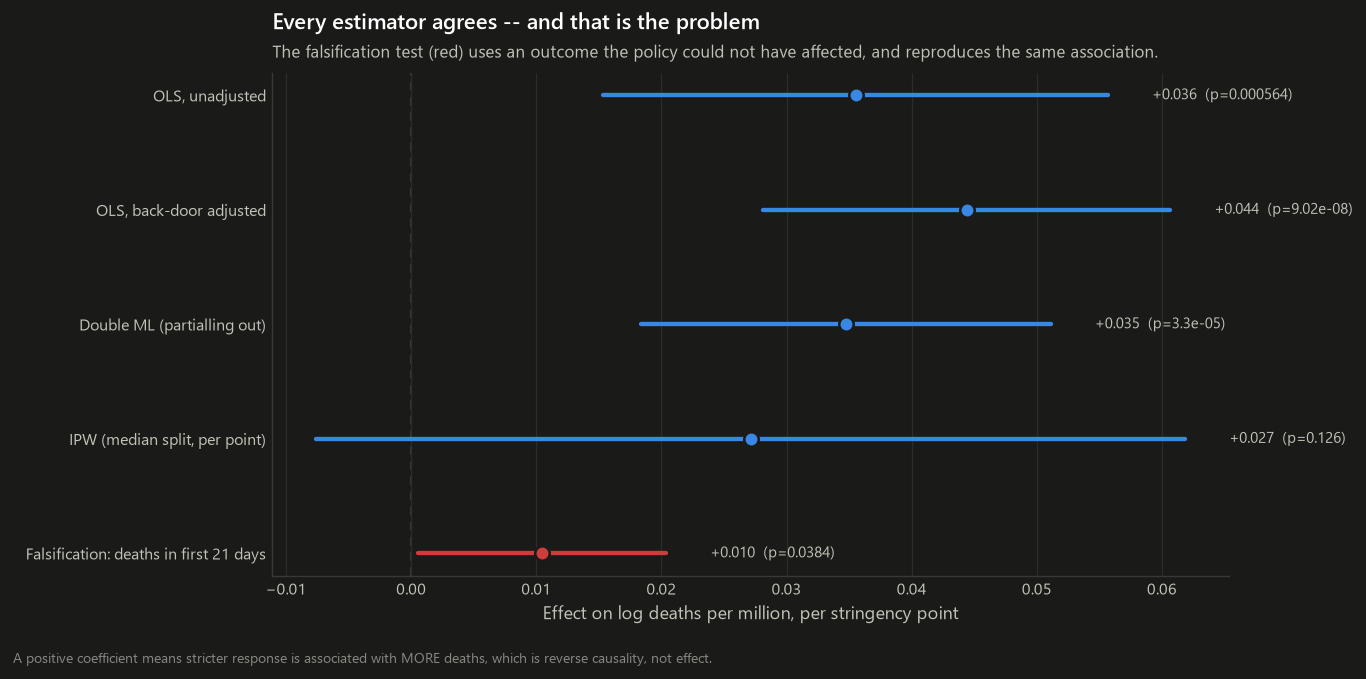
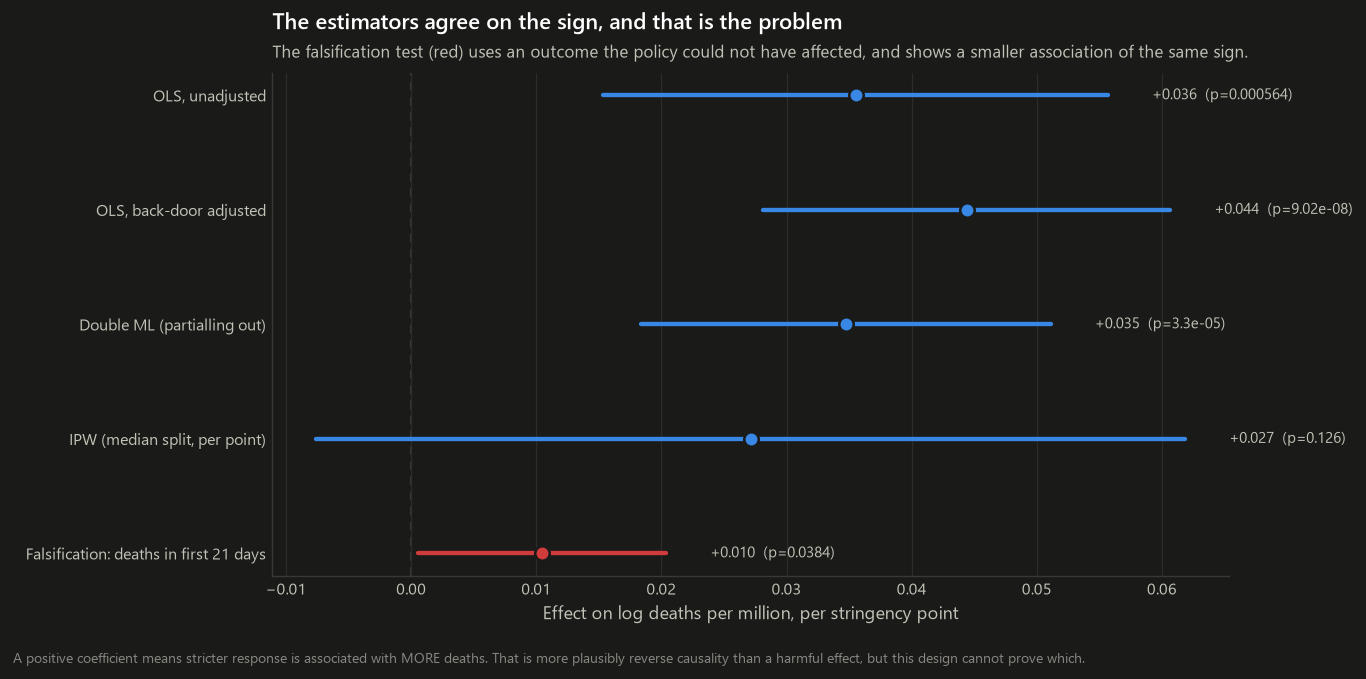
Describe the identification probes as they actually came out
The README and METHODS said the lagged probe was a null with no power. The saved
results show it is significant (p = 0.022) but negative, the opposite of the
reverse-causality story. The 21-day falsification outcome is also small but
nonzero (+0.0105, p = 0.038, about 24% of the main effect), not "no detectable
association". Reworded the Limitations text, METHODS, and the code docstring and
message to match, and softened "reverse causality" from a statement of fact to
the more plausible reading. The estimate-ladder figure subtitle, title and
footnote are corrected and re-rendered from the saved results.

The saved causal_summary.json still carries the old interpretation string until
the causal stage is next rerun.

Changed region(s): [[0.1845, 0.0, 0.6149, 0.0619], [0.369, 0.9588, 0.7994, 0.9897], [0.6457, 0.0619, 0.9224, 0.0928]]

diff --git a/src/pandemic/causal/identification.py b/src/pandemic/causal/identification.py
@@ -40,9 +40,10 @@ def response_channel(df: pd.DataFrame, treatment: str, controls: list[str],
     Two probes, because they have very different power:
 
     ``lagged``      treatment against case growth measured *before* the window
-                    opened. Weak by construction -- at the 100th case almost every
-                    country still has a tiny, noisy series, so a null here is
-                    uninformative rather than reassuring.
+                    opened. The series are short and noisy at the 100th case, so
+                    this is a weak probe. A positive, significant result would
+                    suggest governments reacted to earlier growth. In this data it
+                    is significant but negative, which does not support that story.
     ``concurrent``  treatment against the outbreak size *during* the window. This
                     is what governments were actually watching. It cannot separate
                     cause from effect on its own -- restrictions also change case
@@ -119,8 +120,8 @@ def effect_before_cause(df: pd.DataFrame, treatment: str, controls: list[str],
             "the estimate on the pre-causal window is of comparable size and the "
             "same sign, so the headline association is confounding rather than effect"
             if contaminated else
-            "no detectable association on the pre-causal window, which is what a "
-            "credible causal estimate requires"
+            "the association on the pre-causal window is small relative to the main "
+            "estimate (below the contamination cut-off), though not necessarily zero"
         ),
     }
 

diff --git a/src/pandemic/viz/plots_causal.py b/src/pandemic/viz/plots_causal.py
@@ -143,12 +143,13 @@ def estimate_ladder(rows: list[dict], placebo_row: dict | None = None):
         ax.grid(axis="x", color=p.grid, lw=0.7)
         ax.set_xlabel("Effect on log deaths per million, per stringency point")
 
-        title(ax, "Every estimator agrees -- and that is the problem",
+        title(ax, "The estimators agree on the sign, and that is the problem",
               "The falsification test (red) uses an outcome the policy could not have "
-              "affected, and reproduces the same association.", palette=p)
+              "affected, and shows a smaller association of the same sign.", palette=p)
         fig.tight_layout()
         footnote(fig, "A positive coefficient means stricter response is associated with "
-                      "MORE deaths, which is reverse causality, not effect.", p)
+                      "MORE deaths. That is more plausibly reverse causality than a harmful "
+                      "effect, but this design cannot prove which.", p)
 
     return draw
 

diff --git a/README.md b/README.md
@@ -346,18 +346,20 @@ whether an estimate is *stable*. They say nothing about whether it's
 stable, survives every placebo, and carries a respectable E-value.
 
 So I tested identification directly. Regressing treatment on the outbreak size
-*during* the policy window gives **+2.26 (p = 0.032)**. Governments clamped down
-harder where the epidemic was worse. Treatment and outcome are decided at the
-same time by the same thing, and no amount of adjusting for fixed country traits
-separates them.
+*during* the policy window gives **+2.26 (p = 0.032)**: stringency was higher
+where the epidemic was bigger. That fits governments clamping down harder where
+things were worse, and if so, treatment and outcome are decided at the same time
+by the same thing, which adjusting for fixed country traits cannot separate. The
+evidence is suggestive rather than airtight (see Limitations).
 
 The pipeline writes its own verdict:
 
 > The design does NOT identify a causal effect. […] The reported coefficient is a
 > measure of which countries were already in trouble when they acted.
 
-The positive sign is the giveaway. Reading +0.035 as "lockdowns increased deaths"
-points the arrow backwards.
+A positive sign is hard to read as "lockdowns increased deaths", and much easier
+to read as reverse causality. The honest conclusion is not "lockdowns don't work",
+it's that this design cannot tell us either way.
 
 ### The comparison the brief asks for
 
@@ -488,12 +490,24 @@ can only agree with the suspicion behind it isn't a diagnostic. The problem it
 does catch is narrower: it shows up when one variable is *defined* as a share of
 population, which `mechanical_scaling_demo` builds explicitly.
 
-**One of the two identification probes has no power.** The lagged probe tests
-case growth *before* the policy window, when nearly every country still has a
-short and noisy series, so its null means nothing. The concurrent probe, outbreak
-size *during* the window, is the one that can detect simultaneity, and it fires
-at p = 0.032. Both are reported with the caveat that they can reveal confounding
-but never rule it out.
+**The identification checks are mixed, and the verdict leans on one borderline
+probe.** Three checks look at whether the policy was driven by the outbreak:
+
+- *Outbreak size during the window* against stringency: **+2.26, p = 0.032**. This
+  is the probe that triggers the "not identified" verdict. Even this one cannot
+  separate cause from effect alone, since restrictions also change case counts.
+- *Case growth before the window* against stringency: **−2.59, p = 0.022**. It is
+  significant but the **opposite sign**: countries with faster early growth went on
+  to adopt less strict policy. That does not support "governments reacted to
+  earlier growth", and I don't have a clean explanation for it.
+- *Deaths in the first 21 days* (which policy could not have prevented) against
+  stringency: **+0.0105, p = 0.038**, about a quarter the size of the main
+  effect. It falls under my 0.3 cut-off for flagging contamination, but it is not
+  zero.
+
+So the design is not clean, the probes do not agree, and none of them can rule
+confounding out. The one firm conclusion is that this cross-country design cannot
+identify the effect.
 
 **The synthetic control is a null on a design that can't be read.** Covered above,
 including the figure that shows why.

diff --git a/reports/METHODS.md b/reports/METHODS.md
@@ -88,13 +88,17 @@ altered by differential under-recording — which is exactly the kind of
 state-varying data-quality problem the forensics stage detects, but the state-level
 series are too short to score reliably.
 
-**The identification probes are one-sided.** They can reveal confounding but
-cannot demonstrate its absence. A probe restricted to case growth *before* the
-policy window returns a null for a trivial reason — at the 100th case nearly every
-country still has a short, noisy series, so there is nothing for the test to
-detect. The concurrent probe, outbreak size *during* the window, is the one with
-power, and it fires (p = 0.032). Both are reported, because a null from an
-underpowered test is not evidence of anything.
+**The identification probes are one-sided and they disagree.** They can reveal
+confounding but cannot demonstrate its absence. The concurrent probe (outbreak
+size *during* the window) is positive and significant (+2.26, p = 0.032) and is
+what drives the "not identified" verdict. The lagged probe (case growth *before*
+the window) is also significant (p = 0.022) but negative (−2.59): faster early
+growth went with *less* strict later policy, which is the opposite of the
+reverse-causality story and is not explained here. The 21-day falsification
+outcome shows a small positive association (+0.0105, p = 0.038, about 24% of the
+main effect), below the 0.3 ratio used to flag contamination. The verdict
+therefore rests on one borderline probe, and should be read as "this design
+cannot identify the effect", not as proof of a specific bias.
 
 **The panel GBM is refit only every 56 days.** A model refit at every origin
 might perform better. This is a compute trade-off, stated rather than hidden; the
